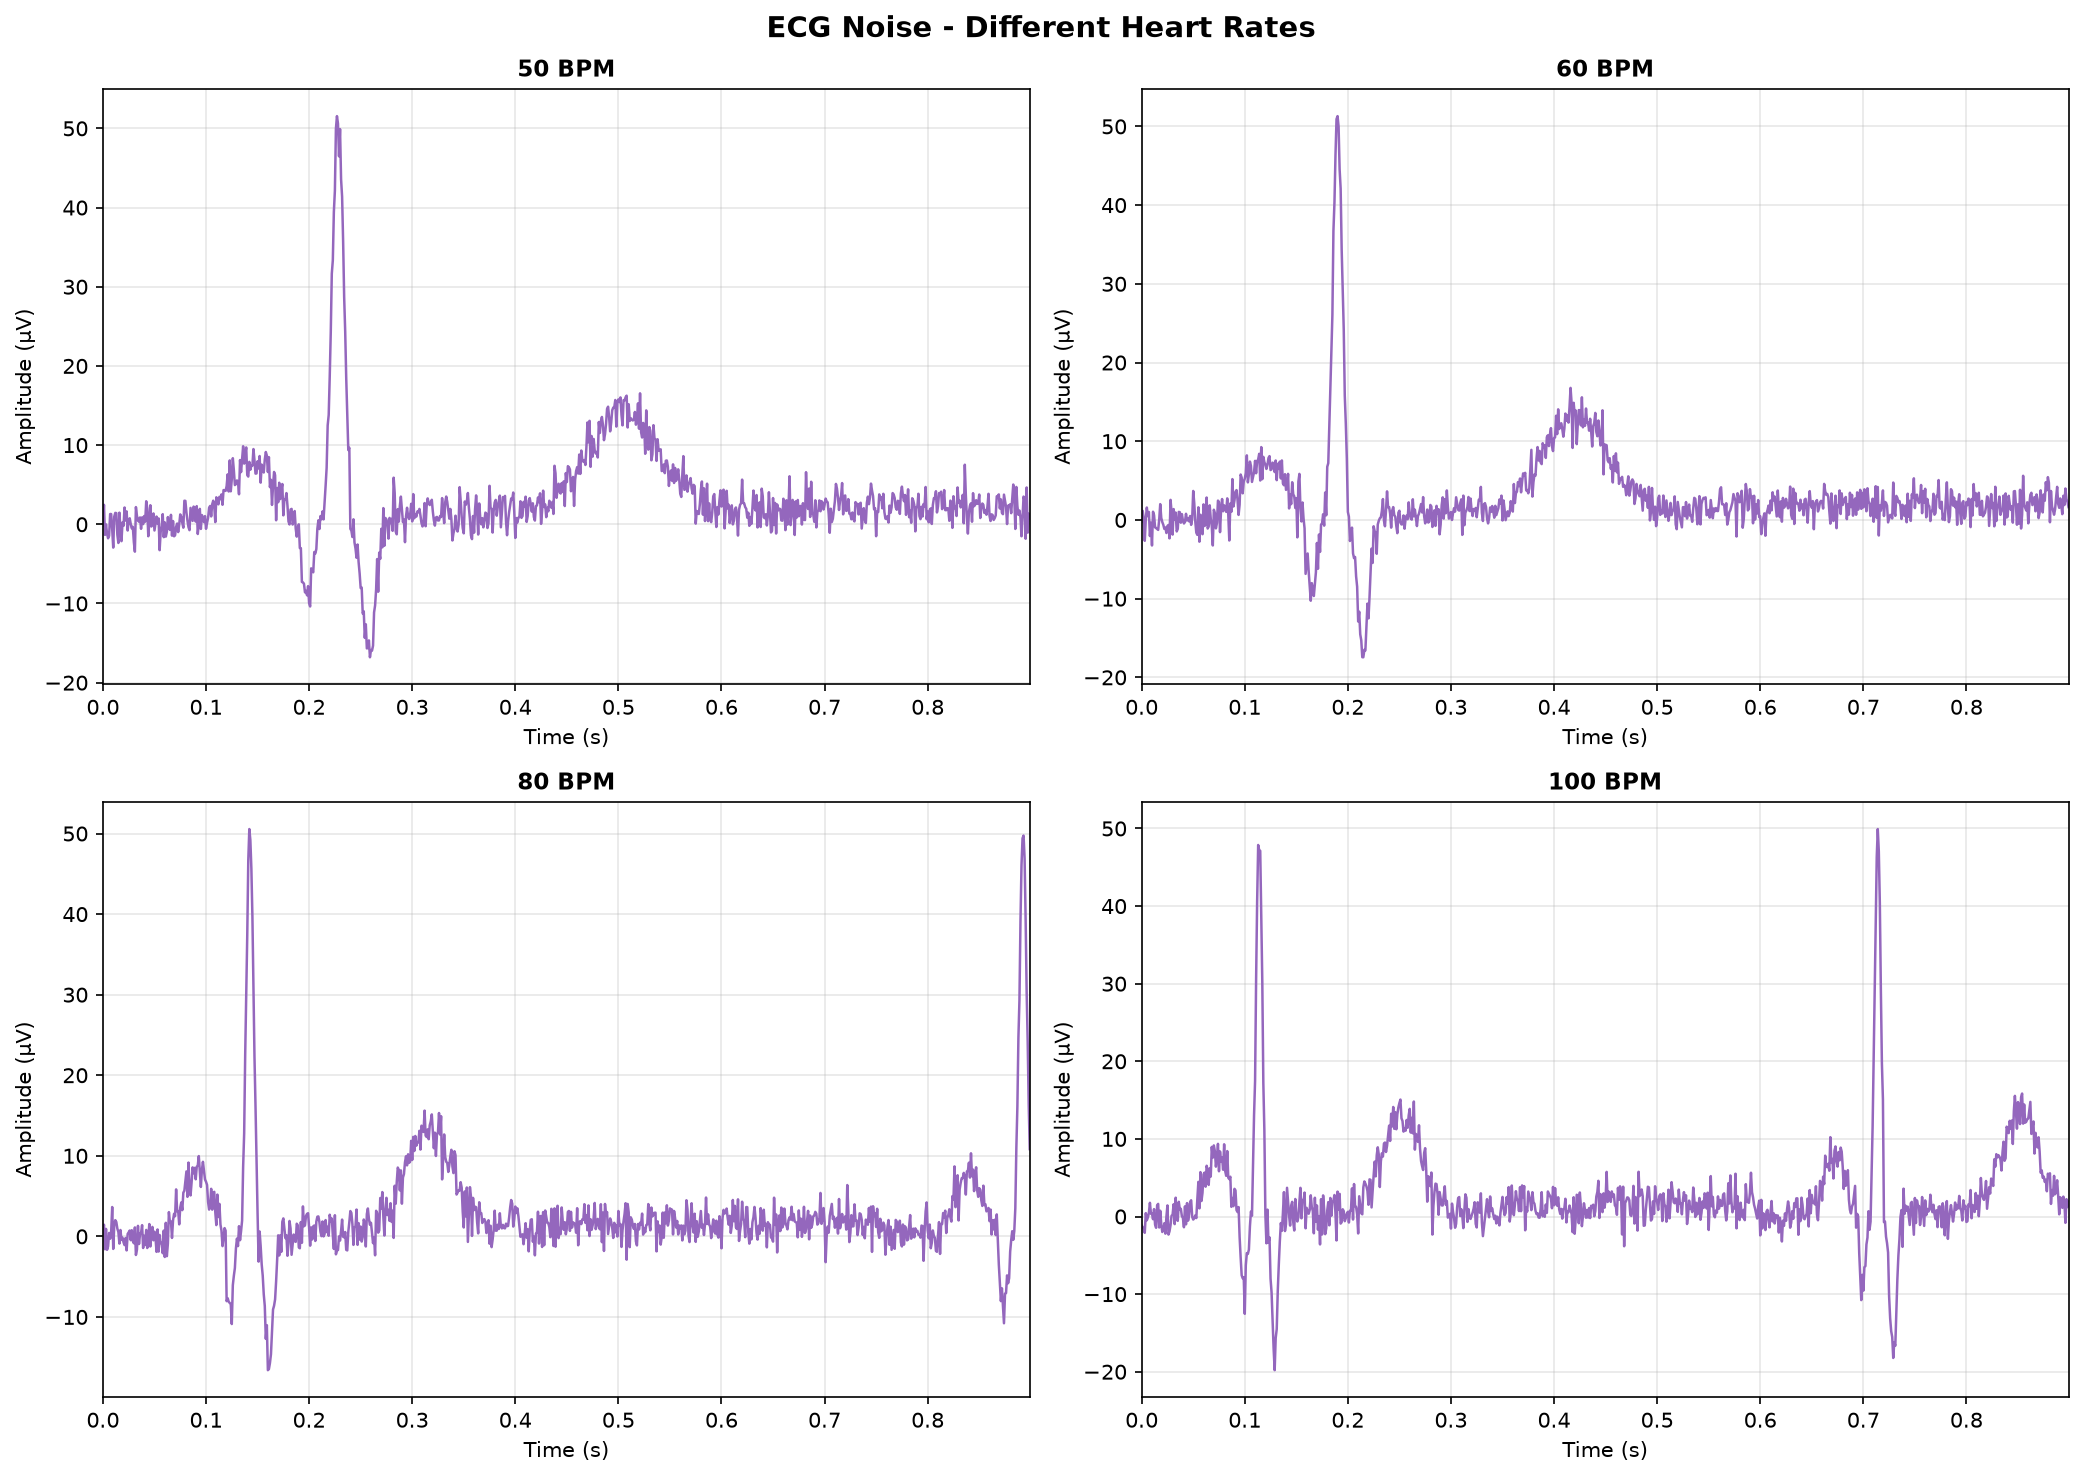
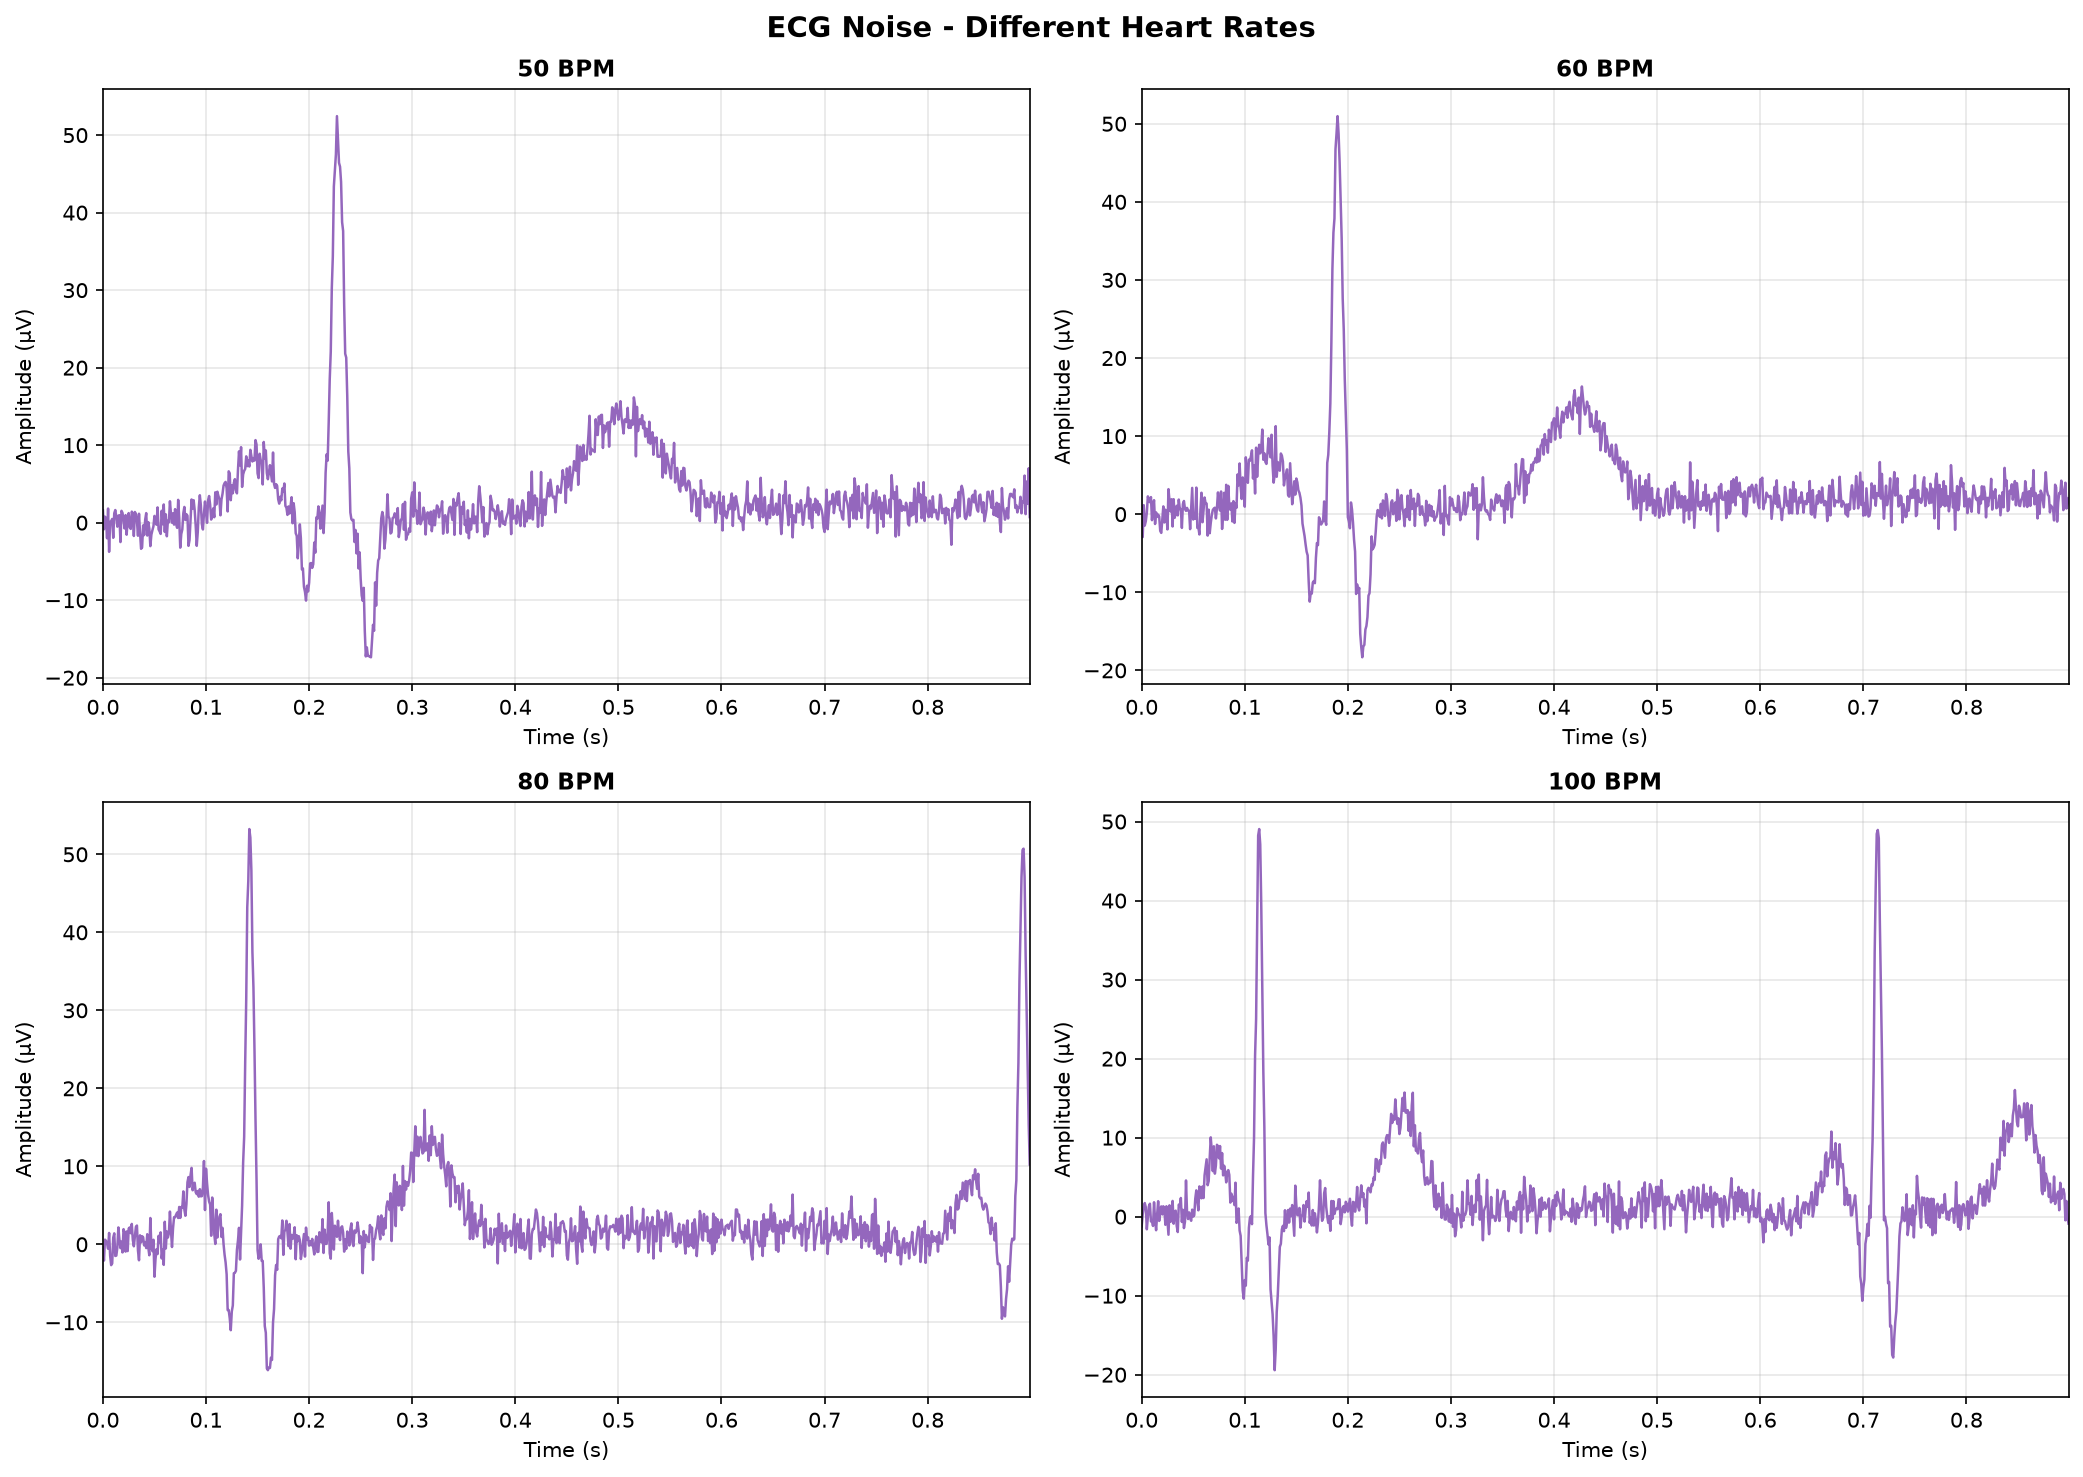
thread

diff --git a/eeg_simulator/core/simulator/simulation.py b/eeg_simulator/core/simulator/simulation.py
@@ -3,6 +3,7 @@
 import time
 
 import numpy as np
+from PyQt6.QtCore import QObject, Qt, QThread, pyqtSignal, pyqtSlot
 from PyQt6.QtWidgets import QApplication, QMessageBox
 
 from ...ui.styles import COLORS
@@ -12,11 +13,72 @@ from ..output_sink import SimulationOutputSink, OutputSinkError
 logger = get_logger(__name__)
 
 
+class SimulationWorker(QObject):
+    request_generate = pyqtSignal(float, int)
+    batch_ready = pyqtSignal(object)
+    failed = pyqtSignal(str)
+
+    def __init__(self, simulator):
+        super().__init__()
+        self._sim = simulator
+        self.request_generate.connect(
+            self.generate_batch,
+            Qt.ConnectionType.QueuedConnection,
+        )
+
+    @pyqtSlot(float, int)
+    def generate_batch(self, t_start: float, n_samples: int):
+        try:
+            dt = 1.0 / self._sim.sampling_rate
+            t_end = t_start + n_samples * dt
+            t = np.linspace(t_start, t_end, n_samples, endpoint=False)
+
+            patch_signals = self._sim.signal._generate_patch_signals_batch(t, n_samples)
+            patch_signals = self._sim.signal._apply_coupling_batch(patch_signals, t, n_samples)
+            eeg_data = self._sim.signal._project_to_electrodes_batch(patch_signals, n_samples)
+
+            if self._sim.noise_configs:
+                eeg_data = self._sim.signal._add_noise_batch(eeg_data, t, n_samples)
+
+            self.batch_ready.emit({
+                't': t,
+                't_end': t_end,
+                'n_samples': n_samples,
+                'patch_signals': patch_signals,
+                'eeg_data': eeg_data,
+            })
+        except Exception as e:
+            logger.error(f"后台生成数据失败: {e}", exc_info=True)
+            self.failed.emit(str(e))
+
+
 class SimulatorSimulation:
     """SimulatorSimulation 服务。"""
 
     def __init__(self, simulator):
         self._sim = simulator
+        self._worker_thread = None
+        self._worker = None
+        self._worker_busy = False
+
+    def _start_worker(self):
+        self._stop_worker()
+        self._worker_busy = False
+        self._worker_thread = QThread(self._sim)
+        self._worker = SimulationWorker(self._sim)
+        self._worker.moveToThread(self._worker_thread)
+        self._worker_thread.finished.connect(self._worker.deleteLater)
+        self._worker.batch_ready.connect(self._on_worker_batch_ready)
+        self._worker.failed.connect(self._on_worker_failed)
+        self._worker_thread.start()
+
+    def _stop_worker(self):
+        self._worker_busy = False
+        if self._worker_thread is not None:
+            self._worker_thread.quit()
+            self._worker_thread.wait()
+        self._worker = None
+        self._worker_thread = None
 
     def start_simulation(self):
         """开始仿真。成功返回 True，校验失败返回 False。"""
@@ -87,6 +149,7 @@ class SimulatorSimulation:
         # 初始化图表并立即绘制预热后的数据
         self._sim.signal_page.update_plots(self._sim.selected_channels)
         self._update_plots()
+        self._start_worker()
 
         # 启动定时器
         update_interval = int(1000 / 30)  # 30fps
@@ -104,11 +167,11 @@ class SimulatorSimulation:
 
         logger.info("停止仿真")
 
-        self._close_output_sink()
-
         self._sim.is_running = False
         self._sim.timer.stop()
         self._sim.status_timer.stop()
+        self._stop_worker()
+        self._close_output_sink()
 
         # 清除信号生成状态，下次启动时重新初始化
         self._sim._signal_states.clear()
@@ -132,19 +195,7 @@ class SimulatorSimulation:
         try:
             # 计算时间
             current_time = time.time()
-            last_update = getattr(self._sim, '_last_update_time', None)
-
-            if last_update is None:
-                elapsed = 1.0 / 30
-            else:
-                elapsed = current_time - last_update
-
-            # 限制最大间隔
-            elapsed = min(elapsed, 0.1)
             self._sim._last_update_time = current_time
-
-            # 计算样本数
-            dt = 1.0 / self._sim.sampling_rate
 
             # 计算样本数
             target_time = max(
@@ -157,51 +208,58 @@ class SimulatorSimulation:
             if n_samples <= 0:
                 return
 
-            # 生成时间序列
             t_start = self._sim.simulation_time
-            t_end = t_start + n_samples * dt
-            t = np.linspace(t_start, t_end, n_samples, endpoint=False)
+            if self._worker is None or self._worker_busy:
+                return
+            self._worker_busy = True
+            self._worker.request_generate.emit(t_start, n_samples)
+        except Exception as e:
+            logger.error(f"仿真更新失败: {e}", exc_info=True)
+            self.stop_simulation()
+            QMessageBox.critical(self._sim, tr('error'), tr('msg_simulation_failed', str(e)))
 
-            # 生成各Patch信号
-            patch_signals = self._sim.signal._generate_patch_signals_batch(t, n_samples)
+    def _on_worker_batch_ready(self, batch: dict):
+        if not self._sim.is_running:
+            self._worker_busy = False
+            return
 
-            # 应用耦合
-            patch_signals = self._sim.signal._apply_coupling_batch(patch_signals, t, n_samples)
-
-            # 投影到电极
-            eeg_data = self._sim.signal._project_to_electrodes_batch(patch_signals, n_samples)
-
-            # 添加噪声
-            if self._sim.noise_configs:
-                eeg_data = self._sim.signal._add_noise_batch(eeg_data, t, n_samples)
-
-            # 更新缓冲区
+        try:
+            t = batch['t']
+            patch_signals = batch['patch_signals']
+            eeg_data = batch['eeg_data']
+            n_samples = int(batch['n_samples'])
             self._sim.signal._update_buffers_batch(t, patch_signals, eeg_data, n_samples)
-            self._sim.simulation_time = t_end
+            self._sim.simulation_time = float(batch['t_end'])
 
-            # 更新图表
             if (self._sim.simulation_time - self._sim._last_waveform_update_time
                     >= self._sim._waveform_update_interval):
                 self._update_plots()
                 self._sim._last_waveform_update_time = self._sim.simulation_time
 
-            # 更新热力图（模态对话框打开时跳过，避免干扰输入焦点）
             if (QApplication.activeModalWidget() is None
                     and self._sim.signal_page.is_heatmap_enabled()
                     and self._sim.simulation_time - self._sim._last_heatmap_update_time >= self._sim.heatmap_refresh_interval):
                 self._update_heatmap_from_simulation()
                 self._sim._last_heatmap_update_time = self._sim.simulation_time
 
-            # 限时自动停止
             duration_limit = self._sim.output_page.get_output_config().get('duration', 0)
             if duration_limit > 0 and self._sim.simulation_time >= duration_limit:
                 logger.info(f"达到设定时长 {duration_limit}s，自动停止仿真")
                 self.stop_simulation()
-
         except Exception as e:
-            logger.error(f"仿真更新失败: {e}", exc_info=True)
+            logger.error(f"处理后台数据失败: {e}", exc_info=True)
             self.stop_simulation()
             QMessageBox.critical(self._sim, tr('error'), tr('msg_simulation_failed', str(e)))
+
+        finally:
+            self._worker_busy = False
+
+    def _on_worker_failed(self, message: str):
+        self._worker_busy = False
+        if not self._sim.is_running:
+            return
+        self.stop_simulation()
+        QMessageBox.critical(self._sim, tr('error'), tr('msg_simulation_failed', message))
 
     def _validate_output_config(self, output_config: dict) -> bool:
         """校验输出目录、文件名等（EDF/FIFF 必填）"""

diff --git a/eeg_simulator/core/simulator/signal.py b/eeg_simulator/core/simulator/signal.py
@@ -67,7 +67,7 @@ class SimulatorSignal:
                     current_signals, mne_factors
                 )
             elif self._sim._coupling_models:
-                current_time = self._sim.simulation_time + i * dt
+                current_time = t[i] if i < len(t) else self._sim.simulation_time + i * dt
                 current_signals = self._sim._coupling_engine.compute_coupled_signals(current_signals, current_time)
 
             for pid, signal in current_signals.items():